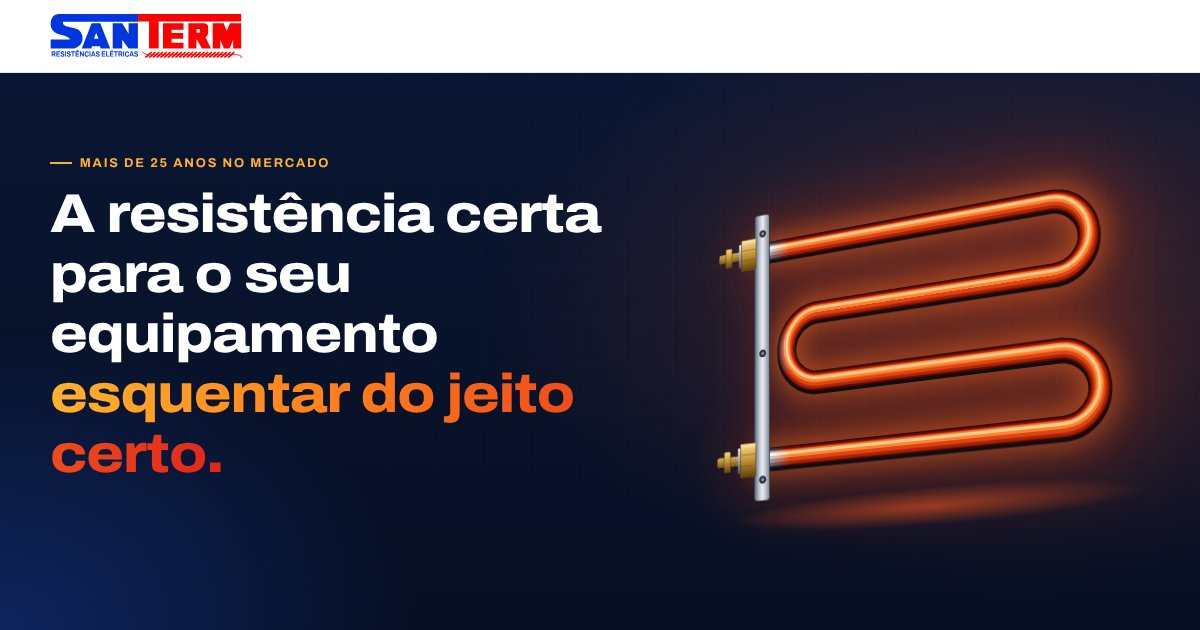
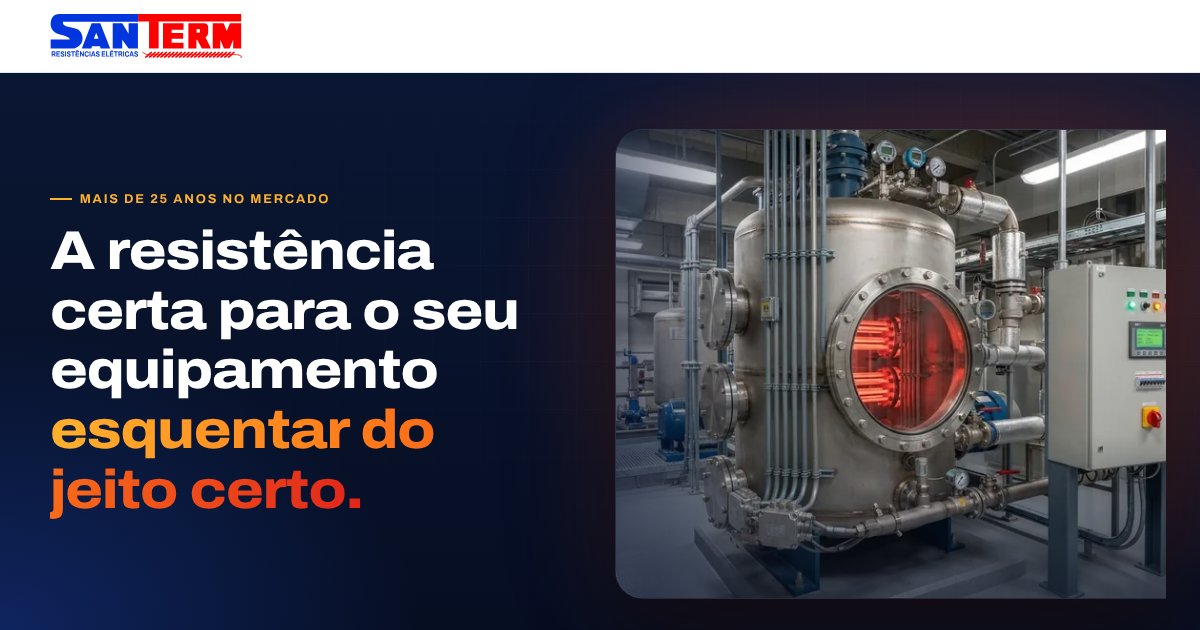
Topo com painel fotográfico do tanque aquecido no lugar da ilustração 3D
- Imagem do tanque industrial com resistências incandescentes como painel
  que encosta na borda direita e se funde ao fundo azul-marinho
- Leve zoom de entrada e pulsação do brilho no visor
- Versões em WebP (900 px e 1408 px) com preload para carregar rápido
- Imagem de compartilhamento atualizada

Claude-Session: https://claude.ai/code/session_01YMZ42ibXBngn4zMUYo3xb4

diff --git a/index.html b/index.html
@@ -20,6 +20,7 @@
   <link rel="preconnect" href="https://fonts.googleapis.com">
   <link rel="preconnect" href="https://fonts.gstatic.com" crossorigin>
   <link href="https://fonts.googleapis.com/css2?family=Archivo:wdth,wght@75..125,400..900&display=swap" rel="stylesheet">
+  <link rel="preload" as="image" href="assets/img/hero-tanque.webp" imagesrcset="assets/img/hero-tanque-900.webp 900w, assets/img/hero-tanque.webp 1408w" imagesizes="(max-width: 880px) 100vw, 60vw">
   <link rel="stylesheet" href="assets/css/style.css">
 
   <script type="application/ld+json">
@@ -93,88 +94,13 @@
         </div>
 
         <figure class="hero__art">
-          <div class="hero__stage">
-          <svg viewBox="0 0 640 480" class="el" role="img" aria-label="Ilustração de uma resistência elétrica tubular aquecendo">
-            <defs>
-              <linearGradient id="brassV" x1="0" x2="0" y1="0" y2="1">
-                <stop offset="0" stop-color="#f6dc95"/><stop offset=".35" stop-color="#d6a94b"/><stop offset=".7" stop-color="#9c7024"/><stop offset="1" stop-color="#5e4212"/>
-              </linearGradient>
-              <linearGradient id="steelV" x1="0" x2="0" y1="0" y2="1">
-                <stop offset="0" stop-color="#eef1f5"/><stop offset=".5" stop-color="#9aa4b4"/><stop offset="1" stop-color="#4a5262"/>
-              </linearGradient>
-              <linearGradient id="plate" x1="0" x2="1" y1="0" y2="0">
-                <stop offset="0" stop-color="#596273"/><stop offset=".35" stop-color="#c4ccd8"/><stop offset=".55" stop-color="#e9edf3"/><stop offset="1" stop-color="#7d8696"/>
-              </linearGradient>
-              <pattern id="thread" width="3" height="12" patternUnits="userSpaceOnUse">
-                <rect width="3" height="12" fill="#b88a35"/><path d="M0.5 0 L2 12" stroke="#5e4212" stroke-width="1.1"/>
-              </pattern>
-              <filter id="glow1" x="-40%" y="-60%" width="180%" height="220%"><feGaussianBlur stdDeviation="16"/></filter>
-              <filter id="glow2" x="-60%" y="-80%" width="220%" height="260%"><feGaussianBlur stdDeviation="38"/></filter>
-              <linearGradient id="fade" gradientUnits="userSpaceOnUse" x1="120" x2="150" y1="0" y2="0">
-                <stop offset="0" stop-color="#000"/><stop offset="1" stop-color="#fff"/>
-              </linearGradient>
-              <mask id="coldEnds" maskUnits="userSpaceOnUse" x="0" y="0" width="640" height="480"><rect width="640" height="480" fill="url(#fade)"/></mask>
-              <radialGradient id="floor" cx=".5" cy=".5" r=".5">
-                <stop offset="0" stop-color="#ff5a1f" stop-opacity=".55"/><stop offset="1" stop-color="#ff5a1f" stop-opacity="0"/>
-              </radialGradient>
-            </defs>
-          
-            <ellipse class="el-floor" cx="330" cy="455" rx="260" ry="22" fill="url(#floor)"/>
-          
-            <g class="el-glow" fill="none" stroke-linecap="round">
-              <path d="M118 110 H500 A45 45 0 0 1 500 200 H190 A45 45 0 0 0 190 290 H500 A45 45 0 0 1 500 380 H118" stroke="#ff3d00" stroke-width="110" filter="url(#glow2)" opacity=".22"/>
-              <path d="M118 110 H500 A45 45 0 0 1 500 200 H190 A45 45 0 0 0 190 290 H500 A45 45 0 0 1 500 380 H118" stroke="#ff6a1f" stroke-width="40" filter="url(#glow1)" opacity=".5"/>
-            </g>
-          
-            <g class="el-cold" fill="none" stroke-linecap="butt">
-          <path d="M118 110 H500 A45 45 0 0 1 500 200 H190 A45 45 0 0 0 190 290 H500 A45 45 0 0 1 500 380 H118" stroke="#0b0e14" stroke-width="27" transform="translate(0 3)"/>
-          <path d="M118 110 H500 A45 45 0 0 1 500 200 H190 A45 45 0 0 0 190 290 H500 A45 45 0 0 1 500 380 H118" stroke="#161b23" stroke-width="26"/>
-          <path d="M118 110 H500 A45 45 0 0 1 500 200 H190 A45 45 0 0 0 190 290 H500 A45 45 0 0 1 500 380 H118" stroke="#3a4250" stroke-width="23"/>
-          <path d="M118 110 H500 A45 45 0 0 1 500 200 H190 A45 45 0 0 0 190 290 H500 A45 45 0 0 1 500 380 H118" stroke="#646e80" stroke-width="19"/>
-          <path d="M118 110 H500 A45 45 0 0 1 500 200 H190 A45 45 0 0 0 190 290 H500 A45 45 0 0 1 500 380 H118" stroke="#949eaf" stroke-width="14" transform="translate(0 -1)"/>
-          <path d="M118 110 H500 A45 45 0 0 1 500 200 H190 A45 45 0 0 0 190 290 H500 A45 45 0 0 1 500 380 H118" stroke="#c8cfda" stroke-width="9" transform="translate(0 -3)"/>
-          <path d="M118 110 H500 A45 45 0 0 1 500 200 H190 A45 45 0 0 0 190 290 H500 A45 45 0 0 1 500 380 H118" stroke="#f6f8fb" stroke-width="3.5" transform="translate(0 -4)"/>
-            </g>
-            <g class="el-hot" fill="none" stroke-linecap="butt" mask="url(#coldEnds)">
-          <path d="M118 110 H500 A45 45 0 0 1 500 200 H190 A45 45 0 0 0 190 290 H500 A45 45 0 0 1 500 380 H118" stroke="#2a0501" stroke-width="26"/>
-          <path d="M118 110 H500 A45 45 0 0 1 500 200 H190 A45 45 0 0 0 190 290 H500 A45 45 0 0 1 500 380 H118" stroke="#651003" stroke-width="23"/>
-          <path d="M118 110 H500 A45 45 0 0 1 500 200 H190 A45 45 0 0 0 190 290 H500 A45 45 0 0 1 500 380 H118" stroke="#a8230a" stroke-width="19"/>
-          <path d="M118 110 H500 A45 45 0 0 1 500 200 H190 A45 45 0 0 0 190 290 H500 A45 45 0 0 1 500 380 H118" stroke="#de4513" stroke-width="14" transform="translate(0 -1)"/>
-          <path d="M118 110 H500 A45 45 0 0 1 500 200 H190 A45 45 0 0 0 190 290 H500 A45 45 0 0 1 500 380 H118" stroke="#ff8330" stroke-width="9" transform="translate(0 -3)"/>
-          <path d="M118 110 H500 A45 45 0 0 1 500 200 H190 A45 45 0 0 0 190 290 H500 A45 45 0 0 1 500 380 H118" stroke="#ffcf94" stroke-width="3.5" transform="translate(0 -4)"/>
-            </g>
-          
-            <g class="el-plate">
-              <rect x="98" y="58" width="22" height="374" rx="4" fill="url(#plate)" stroke="#2b313c" stroke-width="1"/>
-              <circle cx="110" cy="84" r="5" fill="#2b313c"/><circle cx="110" cy="84" r="2.2" fill="#8d96a5"/>
-              <circle cx="110" cy="406" r="5" fill="#2b313c"/><circle cx="110" cy="406" r="2.2" fill="#8d96a5"/>
-              <circle cx="110" cy="245" r="5" fill="#2b313c"/><circle cx="110" cy="245" r="2.2" fill="#8d96a5"/>
-            </g>
-            <g transform="translate(0 110)">
-            <rect x="44" y="-6" width="34" height="12" rx="2" fill="url(#thread)"/>
-            <rect x="44" y="-6" width="34" height="12" rx="2" fill="url(#brassV)" opacity=".55"/>
-            <rect x="54" y="-13" width="9" height="26" rx="1.5" fill="url(#brassV)" stroke="#6b4a17" stroke-width=".8"/>
-            <rect x="74" y="-16" width="4" height="32" rx="1" fill="url(#steelV)"/>
-            <path d="M78 -21 H100 V21 H78 Z" fill="url(#brassV)" stroke="#6b4a17" stroke-width=".8"/>
-            <path d="M78 -7 H100 M78 7 H100" stroke="#7a561b" stroke-width="1" opacity=".7"/>
-            <rect x="78" y="-21" width="22" height="5" fill="#fff3c9" opacity=".35"/>
-          </g>
-            <g transform="translate(0 380)">
-            <rect x="44" y="-6" width="34" height="12" rx="2" fill="url(#thread)"/>
-            <rect x="44" y="-6" width="34" height="12" rx="2" fill="url(#brassV)" opacity=".55"/>
-            <rect x="54" y="-13" width="9" height="26" rx="1.5" fill="url(#brassV)" stroke="#6b4a17" stroke-width=".8"/>
-            <rect x="74" y="-16" width="4" height="32" rx="1" fill="url(#steelV)"/>
-            <path d="M78 -21 H100 V21 H78 Z" fill="url(#brassV)" stroke="#6b4a17" stroke-width=".8"/>
-            <path d="M78 -7 H100 M78 7 H100" stroke="#7a561b" stroke-width="1" opacity=".7"/>
-            <rect x="78" y="-21" width="22" height="5" fill="#fff3c9" opacity=".35"/>
-          </g>
-          
-            <g class="embers" fill="#ffb347">
-              <circle cx="260" cy="120" r="2.2"/><circle cx="380" cy="200" r="1.6"/><circle cx="455" cy="290" r="2"/>
-              <circle cx="300" cy="380" r="1.5"/><circle cx="520" cy="150" r="1.8"/><circle cx="220" cy="300" r="1.4"/>
-              <circle cx="420" cy="110" r="1.6"/><circle cx="340" cy="290" r="2.1"/>
-            </g>
-          </svg>
+          <div class="hero__panel">
+            <img src="assets/img/hero-tanque.webp"
+                 srcset="assets/img/hero-tanque-900.webp 900w, assets/img/hero-tanque.webp 1408w"
+                 sizes="(max-width: 880px) 100vw, 60vw"
+                 alt="Tanque industrial de aço inox com resistências elétricas incandescentes vistas pelo visor"
+                 width="1408" height="768" fetchpriority="high">
+            <span class="hero__heat" aria-hidden="true"></span>
           </div>
           <figcaption class="hero__tag">
             <span class="dot"></span> Aço inox AISI-304L · 316L · cobre · PTFE · titânio

diff --git a/assets/css/style.css b/assets/css/style.css
@@ -42,7 +42,7 @@ body {
 img, svg { display: block; max-width: 100%; }
 a { color: inherit; }
 h1, h2, h3 { line-height: 1.1; margin: 0 0 .5em; font-stretch: 112%; letter-spacing: -.02em; }
-h1 { font-size: clamp(2.2rem, 5.4vw, 4rem); font-weight: 800; }
+h1 { font-size: clamp(2.2rem, 4.6vw, 3.6rem); font-weight: 800; }
 h2 { font-size: clamp(1.8rem, 3.6vw, 2.75rem); font-weight: 800; }
 h3 { font-size: 1.2rem; font-weight: 700; }
 p { margin: 0 0 1em; }
@@ -136,7 +136,7 @@ p { margin: 0 0 1em; }
   mask-image: radial-gradient(ellipse at 70% 40%, #000 20%, transparent 70%);
   -webkit-mask-image: radial-gradient(ellipse at 70% 40%, #000 20%, transparent 70%);
 }
-.hero__grid { position: relative; z-index: 1; display: grid; grid-template-columns: 1.1fr .9fr; gap: 48px; align-items: center; }
+.hero__grid { position: relative; z-index: 1; display: grid; grid-template-columns: 1fr 1.05fr; gap: 56px; align-items: center; }
 .hero h1 em { font-style: normal; background: linear-gradient(90deg, var(--amber), var(--orange) 45%, var(--red)); -webkit-background-clip: text; background-clip: text; color: transparent; }
 .lead { font-size: clamp(1.05rem, 1.6vw, 1.2rem); color: rgba(255, 255, 255, .78); max-width: 36em; }
 .lead strong { color: #fff; }
@@ -147,33 +147,34 @@ p { margin: 0 0 1em; }
 .hero__facts span { font-size: .85rem; color: rgba(255, 255, 255, .65); }
 
 .hero__art { margin: 0; position: relative; }
-.hero__stage { perspective: 1200px; }
-.el {
-  width: 112%; max-width: none; margin-left: -6%; overflow: visible;
-  transform: rotateX(14deg) rotateY(-24deg) rotateZ(-2deg);
-  transition: transform .6s cubic-bezier(.2, .7, .2, 1);
+.hero__panel {
+  position: relative; overflow: hidden; height: clamp(420px, 44vw, 600px);
+  /* encosta o painel na borda direita da tela */
+  margin-right: calc((min(100vw - 32px, var(--wrap)) - 100vw) / 2);
+  border-radius: 28px 0 0 28px;
+  border: 1px solid rgba(255, 255, 255, .12); border-right: 0;
+  box-shadow: 0 40px 80px rgba(0, 0, 0, .45), 0 0 120px rgba(255, 90, 30, .18);
 }
-.hero__art:hover .el { transform: rotateX(8deg) rotateY(-14deg) rotateZ(-1deg); }
-.el-hot { opacity: 0; animation: heatup 3.2s cubic-bezier(.4, 0, .2, 1) .5s forwards, breathe 4.5s ease-in-out 3.7s infinite; }
-.el-glow, .el-floor { opacity: 0; animation: heatup 3.6s cubic-bezier(.4, 0, .2, 1) .9s forwards, breathe 4.5s ease-in-out 4.5s infinite; }
-@keyframes heatup { to { opacity: 1; } }
-@keyframes breathe { 0%, 100% { opacity: 1; } 50% { opacity: .78; } }
-.embers circle { opacity: 0; transform-box: fill-box; animation: ember 5s linear infinite; }
-.embers circle:nth-child(2) { animation-delay: 4s; animation-duration: 6s; }
-.embers circle:nth-child(3) { animation-delay: 4.8s; }
-.embers circle:nth-child(4) { animation-delay: 5.5s; animation-duration: 6.5s; }
-.embers circle:nth-child(5) { animation-delay: 6.3s; }
-.embers circle:nth-child(6) { animation-delay: 7s; animation-duration: 5.5s; }
-.embers circle:nth-child(7) { animation-delay: 7.6s; }
-.embers circle:nth-child(8) { animation-delay: 8.4s; animation-duration: 6s; }
-.embers circle:nth-child(1) { animation-delay: 3.4s; }
-@keyframes ember {
-  0% { opacity: 0; transform: translate(0, 0); }
-  15% { opacity: .9; }
-  100% { opacity: 0; transform: translate(14px, -90px); }
+.hero__panel img {
+  width: 100%; height: 100%; object-fit: cover; object-position: 55% 50%;
+  animation: kenburns 18s ease-out both;
 }
+@keyframes kenburns { from { transform: scale(1.1); } to { transform: scale(1); } }
+.hero__panel::after {
+  content: ""; position: absolute; inset: 0; pointer-events: none;
+  background:
+    linear-gradient(90deg, rgba(10, 22, 51, .55), transparent 30%),
+    linear-gradient(0deg, rgba(6, 14, 34, .55), transparent 35%);
+}
+/* pulsação do brilho das resistências no visor */
+.hero__heat {
+  position: absolute; left: 38%; top: 30%; width: 34%; height: 42%; border-radius: 50%; pointer-events: none;
+  background: radial-gradient(closest-side, rgba(255, 90, 40, .55), rgba(255, 60, 20, 0));
+  mix-blend-mode: screen; animation: heatpulse 3.6s ease-in-out infinite;
+}
+@keyframes heatpulse { 0%, 100% { opacity: .25; } 50% { opacity: .75; } }
 .hero__tag {
-  position: absolute; left: 50%; bottom: -18px; transform: translateX(-50%);
+  position: absolute; left: 24px; bottom: 22px;
   display: inline-flex; align-items: center; gap: 8px; white-space: nowrap;
   padding: 8px 14px; border-radius: 999px; font-size: .78rem; font-weight: 600;
   background: rgba(255, 255, 255, .08); border: 1px solid rgba(255, 255, 255, .14);
@@ -443,7 +444,9 @@ dialog::backdrop { background: rgba(6, 14, 34, .6); backdrop-filter: blur(4px); 
   .nav.open { transform: none; opacity: 1; visibility: visible; }
   .nav a { padding: 14px 8px; font-size: 1.05rem; border-bottom: 1px solid var(--line); border-radius: 0; color: var(--ink); }
   .hero__grid, .calc, .about, .contact { grid-template-columns: 1fr; gap: 40px; }
-  .hero__art { max-width: 460px; margin-inline: auto; width: 100%; }
+  .hero__art { width: 100%; }
+  .hero__panel { height: auto; aspect-ratio: 4 / 3; margin-right: 0; border-radius: 22px; border-right: 1px solid rgba(255, 255, 255, .12); }
+  .hero__heat { left: 34%; width: 38%; }
   .modal__body { grid-template-columns: 1fr; }
   .modal__img { border-right: 0; border-bottom: 1px solid var(--line); }
   .modal__info { padding: 24px; }
@@ -460,7 +463,7 @@ dialog::backdrop { background: rgba(6, 14, 34, .6); backdrop-filter: blur(4px); 
   .card__name { font-size: .98rem; }
   .card__cat { display: none; }
   .card__add { font-size: .8rem; padding: .5em .6em; }
-  .hero__tag { font-size: .7rem; white-space: normal; text-align: center; width: max-content; max-width: 100%; }
+  .hero__tag { font-size: .7rem; left: 12px; right: 12px; bottom: 12px; white-space: normal; justify-content: center; }
   .hero__facts { gap: 12px 24px; }
   .cta-band, .calc__form, .contact__form { padding: 22px; }
   .formula { font-size: .95rem; padding: 16px; }
@@ -471,6 +474,5 @@ dialog::backdrop { background: rgba(6, 14, 34, .6); backdrop-filter: blur(4px); 
 }
 @media (prefers-reduced-motion: reduce) {
   *, *::before, *::after { animation: none !important; transition: none !important; scroll-behavior: auto !important; }
-  .el-hot, .el-glow, .el-floor { opacity: 1; }
   .reveal { opacity: 1; transform: none; }
 }
